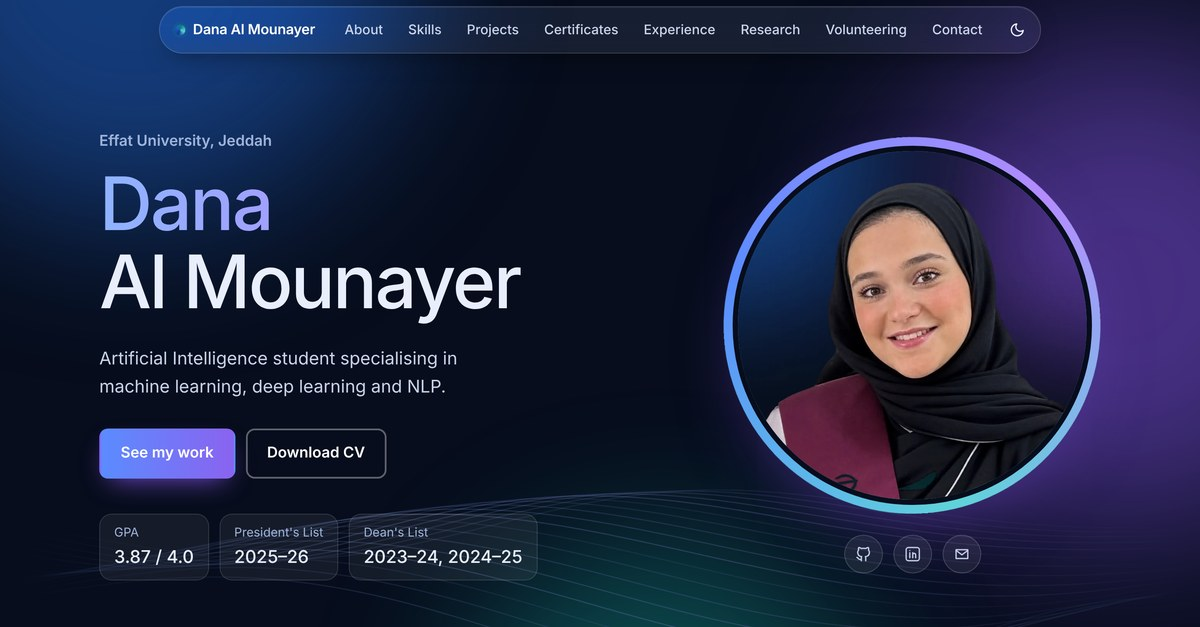
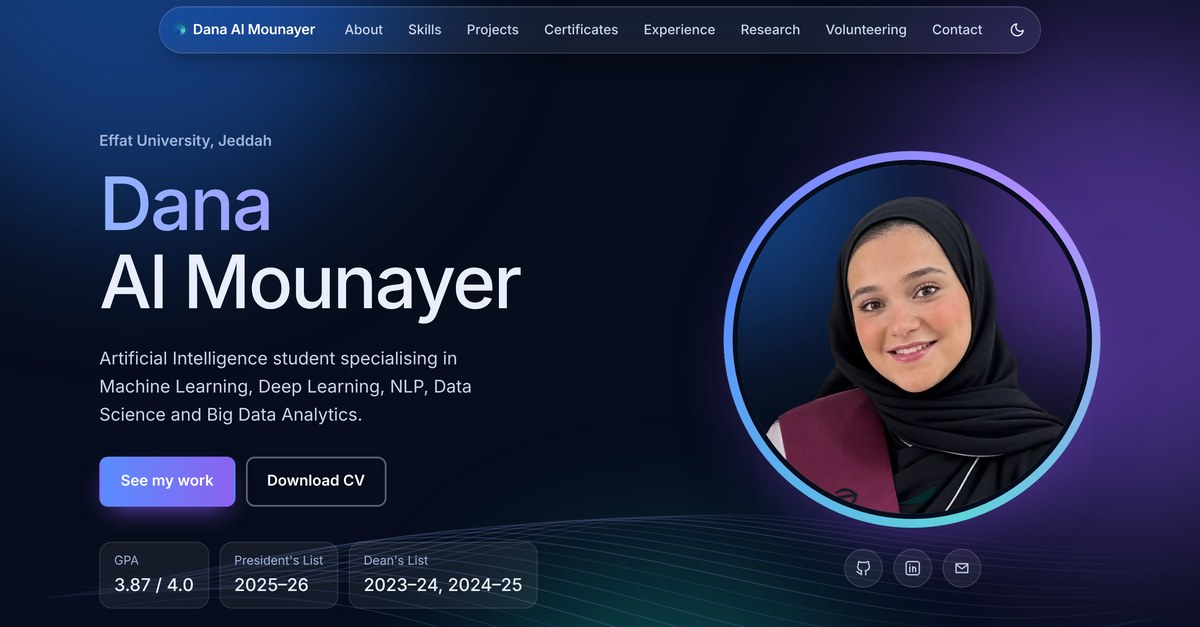
Consistent capitalisation of focus areas

Changed region(s): [[0.5858, 0.2121, 0.925, 0.9394], [0.0617, 0.6061, 0.6167, 0.9697], [0.7092, 0.6667, 0.74, 0.697]]

diff --git a/index.html b/index.html
@@ -4,11 +4,11 @@
     <meta charset="UTF-8" />
     <meta name="viewport" content="width=device-width, initial-scale=1.0" />
     <title>Dana Al Mounayer · Artificial Intelligence</title>
-    <meta name="description" content="Artificial Intelligence student at Effat University specialising in machine learning, deep learning and NLP. Projects, research and certificates." />
+    <meta name="description" content="Artificial Intelligence student at Effat University specialising in Machine Learning, Deep Learning, NLP, Data Science and Big Data Analytics. Projects, research and certificates." />
     <meta name="theme-color" content="#0B3D91" />
     <meta name="color-scheme" content="light dark" />
     <meta property="og:title" content="Dana Al Mounayer · Artificial Intelligence" />
-    <meta property="og:description" content="Artificial Intelligence student at Effat University specialising in machine learning, deep learning and NLP. Projects, research and certificates." />
+    <meta property="og:description" content="Artificial Intelligence student at Effat University specialising in Machine Learning, Deep Learning, NLP, Data Science and Big Data Analytics. Projects, research and certificates." />
     <meta property="og:image" content="https://danamounayer.github.io/Portfolio/images/og-image.jpg" />
     <meta property="og:image:width" content="1200" />
     <meta property="og:image:height" content="627" />
@@ -67,8 +67,8 @@
             <p class="hero-kicker">Effat University, Jeddah</p>
             <h1 class="hero-name"><span>Dana</span> <span>Al Mounayer</span></h1>
             <p class="hero-lede">
-              Artificial Intelligence student specialising in machine learning, deep
-              learning and NLP.
+              Artificial Intelligence student specialising in Machine Learning,
+              Deep Learning, NLP, Data Science and Big Data Analytics.
             </p>
             <div class="hero-actions">
               <a class="btn btn-solid" href="#projects">See my work</a>
@@ -98,8 +98,8 @@
             <h2>About me</h2>
             <p>
               I am a senior Artificial Intelligence student at Effat University with a
-              strong foundation in machine learning, deep learning, natural language
-              processing and big data analytics. I am passionate about turning data into
+              strong foundation in Machine Learning, Deep Learning, Natural Language
+              Processing and Big Data Analytics. I am passionate about turning data into
               intelligent, practical solutions for real-world problems.
             </p>
             <p>
@@ -111,7 +111,7 @@
             </p>
             <dl class="about-facts">
               <div><dt>Degree</dt><dd>BSc Artificial Intelligence, 2023–2027</dd></div>
-              <div><dt>Focus</dt><dd>Machine learning, deep learning, NLP, data science, big data analytics</dd></div>
+              <div><dt>Focus</dt><dd>Machine Learning, Deep Learning, NLP, Data Science, Big Data Analytics</dd></div>
               <div><dt>Languages</dt><dd>Arabic (native), English (full professional), French (elementary), German (elementary)</dd></div>
               <div><dt>Looking for</dt><dd>AI / ML internships</dd></div>
             </dl>
